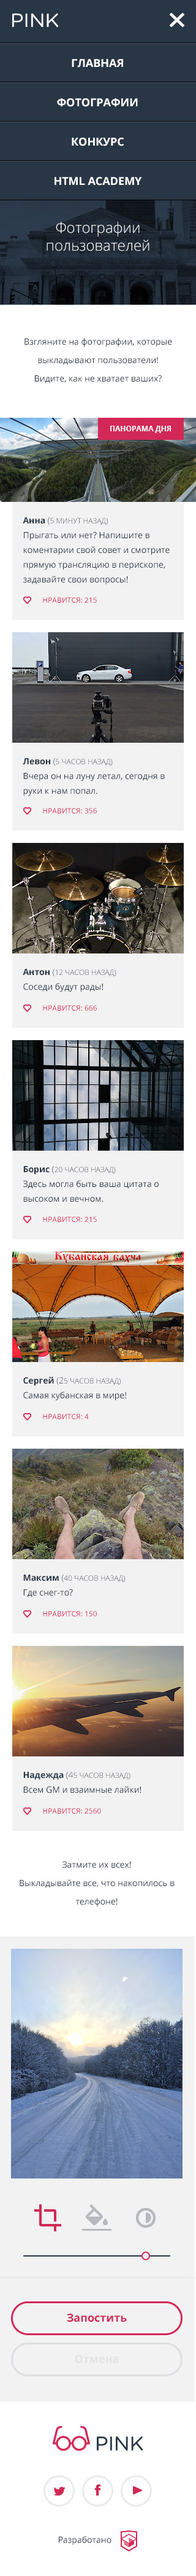
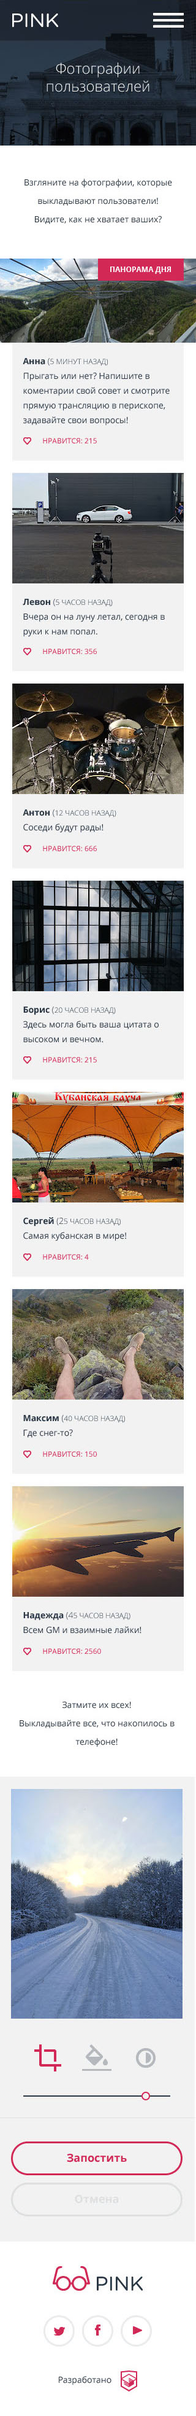
Адаптивные сетки photo.html(?)

diff --git a/photo.html b/photo.html
@@ -6,23 +6,38 @@
     <title>HTML Academy: Пинк</title>
     <link rel="stylesheet" href="css/style.css">
   </head>
-  <body class="page">
+  <body class="page page__photo">
     <header class="page-header">
-      <div class="page-header__wrapper">
-      <div class="page-header__logo">
-        <img src="img/logo-pink-white-mobile.svg" width="77" height="25" alt="Pink"/>
+        <header class="page-header">
+      <div class="page-header__logo page-header__logo--mobile">
+        <div class="page-header__wrapper">
+          <img src="img/logo-pink-white-mobile.svg" width="75" height="22" alt="Pink"/>
+        </div>
+      </div>
+      <div class="page-header__logo page-header__logo--tablet">
+        <div class="page-header__wrapper">
+          <img src="img/logotype-white-tablet.png" width="147" height="41" alt="Pink"/>
+        </div>
+
+      </div>
+      <div class="page-header__logo page-header__logo--desktop">
+        <div class="page-header__wrapper">
+          <img src="img/logotype-white-desktop.png" width="148" height="40" alt="Pink"/>
+        </div>
       </div>
       <nav class="main-menu">
-        <div class="main-menu__toggle"></div>
-        <div class="main-menu__wrapper">
+
+        <button class="main-menu__toggle"></button>
+
           <ul class="main-menu__items">
             <li class="main-menu__item"><a href="#">Главная</a></li>
             <li class="main-menu__item"><a href="#">Фотографии</a></li>
             <li class="main-menu__item"><a href="#">Конкурс</a></li>
-            <li class="main-menu__item"><a href="#">htmlacademy</a></li>
+            <li class="main-menu__item"><a href="#">html academy</a></li>
           </ul>
-        </div>
+
       </nav>
+      <div class="page-header__wrapper">
       <div class="page-header__container">
          <h2 class="page-header__title">Фотографии пользователей</h2>
       </div>
@@ -33,12 +48,12 @@
     </header>
     <main>
       <section class="posts">
+        <div class="posts__panorama">
+          <img src="img/panorama-mobile@1x.jpg">
+         </div>
         <div class="posts__wrapper">
           <ul class="posts__items">
             <li class="posts__item">
-                <div class="posts__photo">
-                  <img src="img/panorama-mobile@1x.jpg">
-                </div>
                 <cite class="posts__author">Анна (5 минут назад)</cite>
                 <p class="posts__desc">Прыгать или нет? Напишите в коментарии свой совет и смотрите прямую трансляцию в перископе, задавайте свои вопросы!</p>
                 <div class="like">мне нравится</div>
@@ -136,6 +151,7 @@
     </footer>
 
     <!-- <p>Репозиторий создан для обучения на интенсивном онлайн‑курсе «<a href="https://htmlacademy.ru/intensive/adaptive">Продвинутый HTML и CSS</a>».</p> -->
-
+    <script src="js/jquery.js"></script>
+    <script src="js/script.js"></script>
   </body>
 </html>

diff --git a/sass/blocks/page-header.scss b/sass/blocks/page-header.scss
@@ -40,10 +40,20 @@
 
   }
 
+  &__title {
+    margin: 0;
+  }
+
 
   &__banner {
     vertical-align: bottom;
     height: 396px;
+  }
+
+  &__container {
+
+    height: 171px;
+    background-color: rgba(255,0,0,0.5);
   }
 
   &__bottom {
@@ -54,8 +64,10 @@
     text-align: center;
 
     &--white {
-      background-color: white;
+      background-color: rgba(0,255,0,0.5);
       color: #1d2631;
+      height: 184px;
+      p { margin: 0; }
     }
   }
 }
@@ -75,11 +87,20 @@
   .page-header {
     &__bottom {
       // background: transparent;
-      display: none;
+      &--main { display: none; }
     }
     &__banner {
       height: 619px;
       background: rgba(255,0,0,0.3);
+    }
+    &__container {
+      height: 330px;
+    }
+
+    &__bottom {
+      &--white {
+        height: 228px;
+      }
     }
   }
 }
@@ -104,6 +125,16 @@
   .page-header {
     &__banner {
       height: 743px;
+    }
+
+    &__container {
+      height: 284px;
+    }
+
+    &__bottom {
+      &--white {
+        height: 240px;
+      }
     }
   }
 }

diff --git a/sass/blocks/posts.scss b/sass/blocks/posts.scss
@@ -1,13 +1,74 @@
 .posts {
   &__wrapper {
     @include container();
-    border: 1px solid black;
-    background-color: #f2f2f2;
+ 
+  }
+
+  &__panorama {
+    margin: 0 auto;
+    width: 320px;
+    img {
+      vertical-align: bottom;
+    }
   }
 
   &__items {
     list-style: none;
     margin: 0;
     padding: 0;
+    background-color: rgba(0,0,255,0.5);
+    height: 2163px;
+  }
+
+  &__item {
+    display: inline-block;
+  }
+
+  &__bottom {
+    background-color: rgba(255,0,0,0.5);
+    height: 172px;
+    p {
+      margin: 0;
+    }
+  }
+}
+
+@media (min-width: 768px) {
+  .posts {
+    &__wrapper {
+   
+    }
+    &__panorama {
+      width: 700px;
+      height: 509px;
+    }
+
+    &__items {
+      height: 1576px;
+    }
+
+    &__bottom {
+      height: 194px;
+    }
+  }
+}
+
+@media (min-width: 1200px) {
+  .posts {
+    &__wrapper {
+   
+    }
+    &__panorama {
+      width: 1200px;
+      height: 506px;
+    }
+
+    &__items {
+      height: 1310px;
+    }
+
+    &__bottom {
+      height: 185px;
+    }
   }
 }

diff --git a/index.html b/index.html
@@ -27,7 +27,6 @@
       </div>
       <nav class="main-menu">
 
-
         <button class="main-menu__toggle"></button>
 
           <ul class="main-menu__items">
@@ -45,7 +44,7 @@
           <!-- <img class="page-header__banner" src="img/iphone-hand-mobile@1x.png"/> -->
         </div>
 
-        <div class="page-header__bottom">
+        <div class="page-header__bottom page-header__bottom--main">
           <div class="btn btn--download">Скачать приложение</div>
           <ul class="apps-links">
             <li class="apps-links__link apps-links__link--apple"><a href=""></a></li>

diff --git a/sass/blocks/make-post.scss b/sass/blocks/make-post.scss
@@ -1,10 +1,10 @@
 .make-post {
   &__wrapper {
     @include container();
-    border: 1px solid black;
+    height: 757px;
+    background-color: rgba(0,255,0,0.5);
   }
   &__slider {
-    border-bottom: 3px solid black;
 
   }
   &__slider-control {
@@ -13,4 +13,22 @@
     background: url(../img/icon-editor-diagram-fill.svg) no-repeat center;
     background-size: 100%;
   }
+}
+
+@media (min-width: 768px) {
+  .make-post {
+    &__wrapper {
+      height: 511px;
+    }
+  }
+
+}
+
+@media (min-width: 1200px) {
+  .make-post {
+    &__wrapper {
+      height: 514px;
+    }
+  }
+
 }

diff --git a/sass/blocks/outlines.scss b/sass/blocks/outlines.scss
@@ -12,3 +12,19 @@ body {
     background-size: 1200px;
   }
 }
+
+.page__photo {
+  background: #ccc url(../img/pink-photo-mobile.jpg) no-repeat 50% 0;
+  background-size: 320px;
+
+
+  @media (min-width: 768px) {
+    background: #ccc url(../img/pink-photo-tablet.jpg) no-repeat 50% 0;
+    background-size: 700px;
+  }
+  @media (min-width: 1200px) {
+    background: #ccc url(../img/pink-photo-desktop.jpg) no-repeat 50% 0;
+    background-size: 1200px;
+  }
+  
+}

diff --git a/sass/blocks/main-menu.scss b/sass/blocks/main-menu.scss
@@ -75,7 +75,7 @@
 
     &__items:before {
       height: 110px;
-      background: #283645 url(../img/logotype-white-tablet.png) no-repeat 40px 25px;
+      background: #283645 url(../img/logotype-white-tablet.png) no-repeat 40px 27px;
       background-size: 147px 41px;
       top: -110px;
     }
